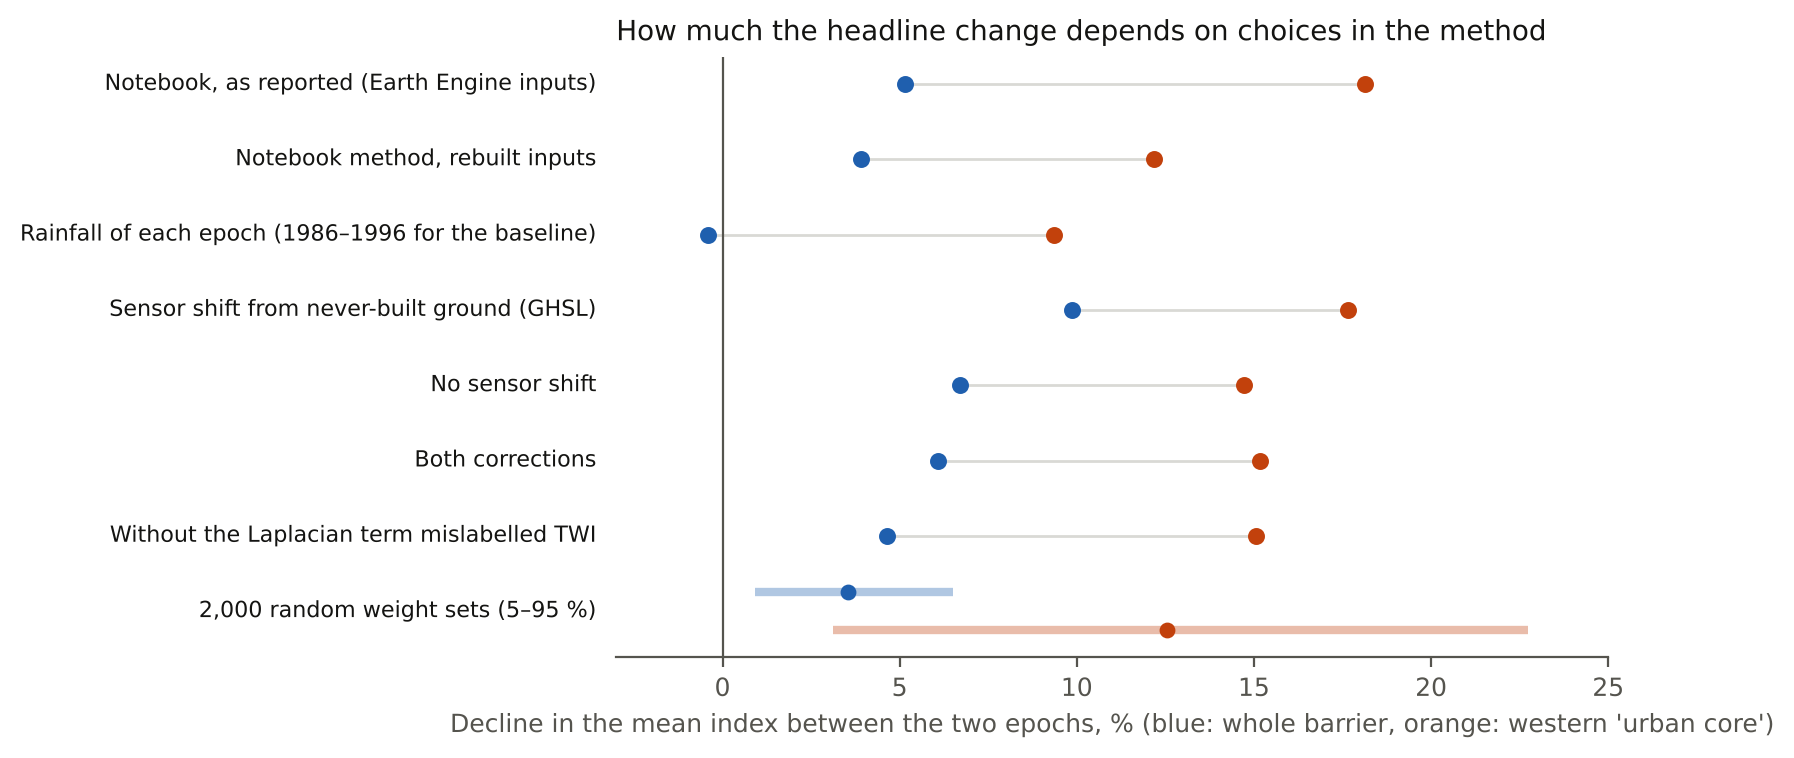
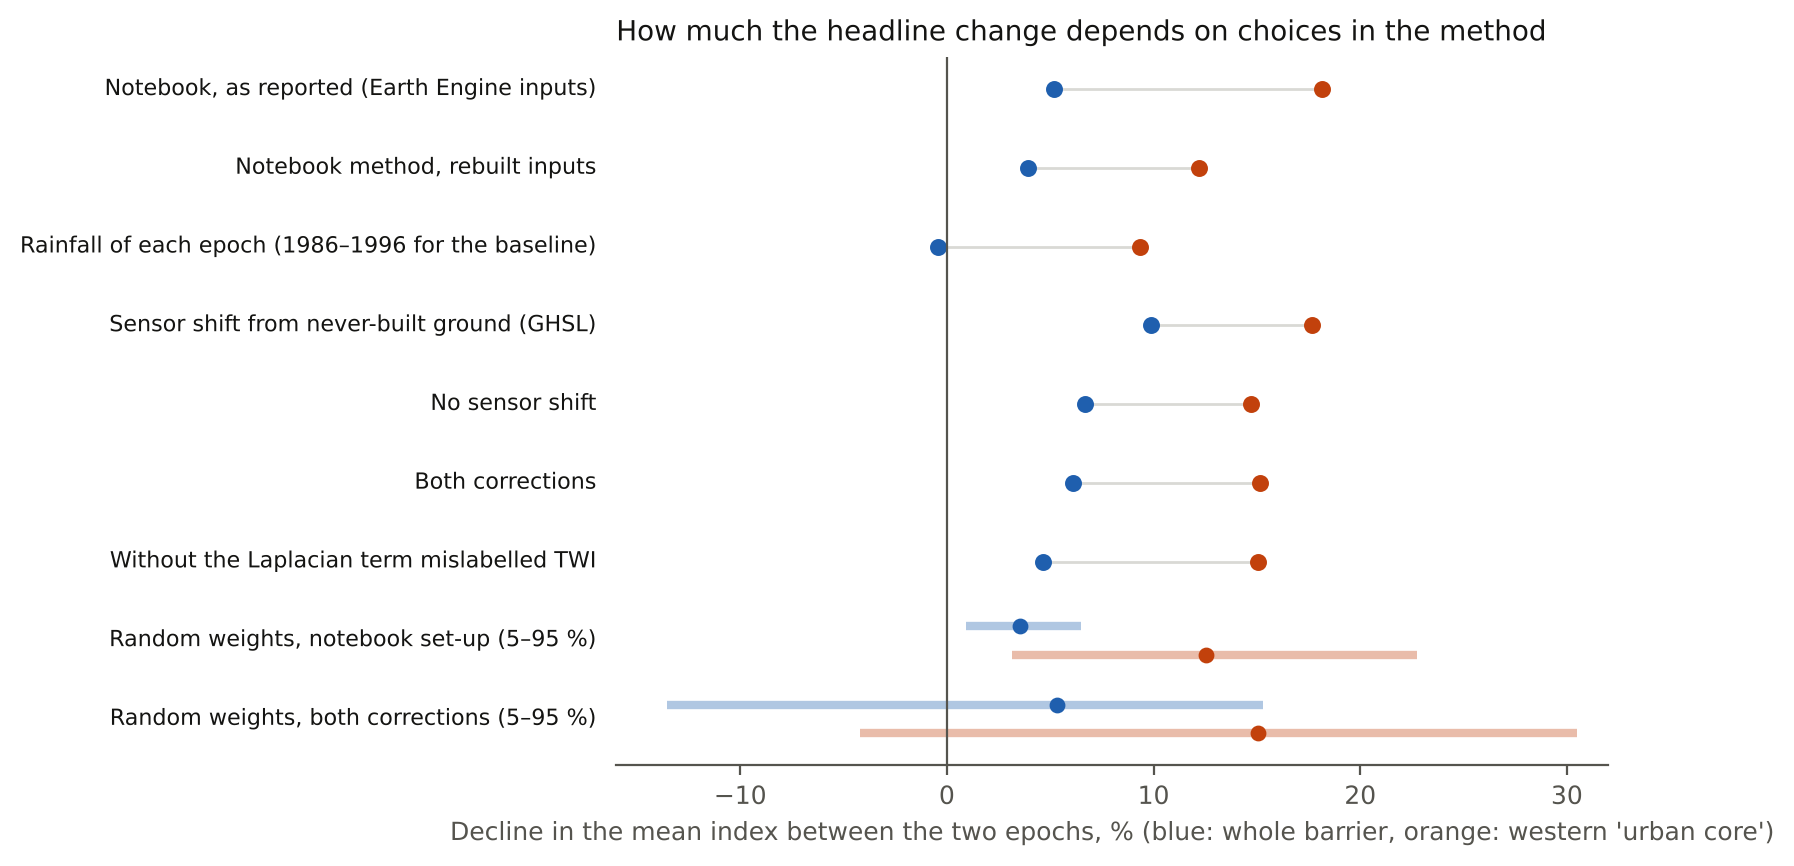
Figures and page: corrected weight test, structure range, largest fall and rising cells, cross-check wording

diff --git a/docs/index.html b/docs/index.html
@@ -85,20 +85,20 @@ footer div { max-width: 1100px; margin: 0 auto; padding: 22px 20px 40px; }
   <p>The original study combined five layers into a recharge-potential index with fixed weights and reported its decline. Rebuilt with the same method, the index falls by <span data-v="rpBasin">—</span> % over the whole barrier and <span data-v="rpCore">—</span> % in the western core; the notebook reported <span data-v="nbBasin">—</span> % and <span data-v="nbCore">—</span> % from its Earth Engine inputs. About <span data-v="permShare">—</span> % of the change comes from the built-up term; the terrain terms are the same in both epochs.</p>
   <figure class="wide"><img src="fig/index_maps.png" width="1660" height="2060" alt="Three maps: the index from 1986 to 1996 imagery, from 2023 to 2024 imagery, and their difference. Decline is concentrated in the west and along the southern barrier, and in a large block in the far south-east inside the area the original study treated as an unchanged rural reference." loading="lazy">
     <figcaption><b>Figure 2.</b> The index in each epoch and its change. The largest single decline lies in the south-east, inside the eastern 30 % of the grid that the original study used as an unchanged reference for matching the two sensors.</figcaption></figure>
-  <p>How large the decline is depends on choices. Using the rainfall of each epoch instead of 2019–2023 for both removes the basin-wide decline (a rise of <span data-v="rainBasin">—</span> %, because 1986–1996 was drier) but leaves a <span data-v="rainCore">—</span> % decline in the core. With both corrections the declines are <span data-v="bothBasin">—</span> % and <span data-v="bothCore">—</span> %. Across 2,000 random sets of weights the core decline ranges from <span data-v="wCoreP5">—</span> to <span data-v="wCoreP95">—</span> % (5th–95th percentile); it is never zero.</p>
+  <p>How large the decline is depends on choices. Using the rainfall of each epoch instead of 2019–2023 for both removes the basin-wide decline (a rise of <span data-v="rainBasin">—</span> %, because 1986–1996 was drier) but leaves a <span data-v="rainCore">—</span> % decline in the core. With both corrections the declines are <span data-v="bothBasin">—</span> % and <span data-v="bothCore">—</span> %. With both corrections and 2,000 random sets of weights, the core declines in <span data-v="wCoreShare">—</span> % of sets and the whole barrier in <span data-v="wBasinShare">—</span> %; the core change runs from <span data-v="wCoreP5">—</span> to <span data-v="wCoreP95">—</span> % (5th–95th percentile, negative values are rises). Under the original set-up a core decline is guaranteed by construction, so that version is not a test.</p>
   <figure><img src="fig/index_sensitivity.png" width="1800" height="770" alt="Dot chart of the decline in the index for the whole barrier and for the western core under each change to the method; every version shows a decline in the western core, while the whole-barrier change ranges from a slight rise to a clear decline." loading="lazy">
-    <figcaption><b>Figure 3.</b> The direction of the change in the west is robust; its size is not.</figcaption></figure>
-  <p>The satellite signal agrees with an independent record. Over <span data-v="ghslBlocks">—</span> blocks of 300 m, the index falls where GHSL maps new buildings (Spearman ρ <span data-v="ghslRho">—</span>), and GHSL's built-up share of the core rose from <span data-v="built90">—</span> % in 1990 to <span data-v="built20">—</span> % in 2020. But the built-up index also reads bright bare sand as built: about <span data-v="sandKm2">—</span> km² scores as built-up in 2024 where GHSL maps no buildings.</p>
+    <figcaption><b>Figure 3.</b> A decline in the west appears in every single change tested and in most weight sets; its size is not fixed, and the whole-barrier direction depends on the rainfall used.</figcaption></figure>
+  <p>The satellite signal agrees with a separate built-up product. GHSL uses a different algorithm but partly the same Landsat archive, so this is a cross-check, not independent validation. Over <span data-v="ghslBlocks">—</span> blocks of 300 m, the index falls where GHSL maps new buildings (Spearman ρ <span data-v="ghslRho">—</span>), and GHSL's built-up share of the core rose from <span data-v="built90">—</span> % in 1990 to <span data-v="built20">—</span> % in 2020. But the built-up index also reads bright bare ground as built: about <span data-v="sandKm2">—</span> km² scores as built-up in 2024 where GHSL maps no buildings, which includes bare sand, cleared land, roads and paving.</p>
   <figure><img src="fig/ghsl_check.png" width="1240" height="680" alt="Box plots of the change in the index against the gain in GHSL built-up fraction; the index falls more where more building was added." loading="lazy">
     <figcaption><b>Figure 4.</b> Change in the index against new building in GHSL.</figcaption></figure>
 
   <h2 id="model">2. What sealing could do to the water table</h2>
-  <p>The model treats the barrier as one unconfined sand aquifer drained by the lagoons and the sea (fixed at sea level) and by seepage where the water table reaches the ground. Recharge is a fraction of the rain falling on unsealed ground. Because the aquifer's conductivity, thickness and the recharge fraction are not known here, each was varied: conductivity 5, 15 and 40 m/day, base at −30 or −60 m, recharge fraction 0.20 or 0.35. Sealing was taken two ways: from GHSL buildings, which miss roads and paving (a lower bound), and from the index's own built-up term taken at face value, which also counts bare sand (an upper bound). All <span data-v="runs">—</span> runs converged with a water-budget error under <span data-v="maxDisc">—</span> %.</p>
-  <figure class="wide"><img src="fig/heads.png" width="1800" height="1480" alt="Upper map: modelled water table in the central scenario, highest in the middle of the barrier, with arrows showing flow outwards to the lagoons and the sea. Lower map: change in water table from 1990 to 2020 under the upper-bound sealing, falling most in the west and south-east and rising slightly in the north-east." loading="lazy">
-    <figcaption><b>Figure 5.</b> Upper: the water table in the central scenario (mean <span data-v="cHeadMean">—</span> m above sea level, highest <span data-v="cHeadMax">—</span> m). Groundwater flows from the middle of the barrier to the lagoons and the sea, across the barrier, not along it. Lower: the change from 1990 to 2020 with the upper-bound sealing.</figcaption></figure>
-  <p>In every scenario the water table lies close to the ground (median depth <span data-v="depthMin">—</span> to <span data-v="depthMax">—</span> m) and between <span data-v="seepMin">—</span> % and <span data-v="seepMax">—</span> % of recharge seeps out at the surface. That shallow, seeping water table absorbs much of the effect of sealing. In the western core the mean fall from 1990 to 2020 is <span data-v="coreGhslMin">—</span>–<span data-v="coreGhslMax">—</span> cm with GHSL sealing and <span data-v="coreSpecMin">—</span>–<span data-v="coreSpecMax">—</span> cm with the upper bound; locally it reaches about <span data-v="p5SpecMax">—</span> m. Rainfall was a little higher in 2019–2023 (<span data-v="rain20">—</span> mm a year) than in 1986–1996 (<span data-v="rain90">—</span> mm), which offsets part of the sealing.</p>
-  <figure><img src="fig/scenarios.png" width="1480" height="740" alt="Dot chart of the mean change in water table in the western core for 12 combinations of conductivity, aquifer base and recharge fraction, under the two sealing estimates; GHSL sealing gives a fall of a few centimetres, the upper bound a fall several times larger." loading="lazy">
-    <figcaption><b>Figure 6.</b> The result depends far more on how sealing is measured than on the aquifer properties.</figcaption></figure>
+  <p>The model treats the barrier as one unconfined sand aquifer drained by the lagoons and the sea (fixed at sea level) and by seepage where the water table reaches the ground. Recharge is a fraction of the rain falling on unsealed ground. Because the aquifer's conductivity, thickness and the recharge fraction are not known here, each was varied: conductivity 5, 15 and 40 m/day, base at −30 or −60 m, recharge fraction 0.20 or 0.35. Sealing was taken two ways: from GHSL buildings, which miss roads and paving and so are likely too low, and from the index's own built-up term taken at face value as a high scenario. The second is not a measured fraction and not a strict upper bound: in <span data-v="specBelowGhsl">—</span> % of model cells its 1990–2020 change is smaller than GHSL's. All <span data-v="runs">—</span> runs converged with a water-budget error under <span data-v="maxDisc">—</span> %.</p>
+  <figure class="wide"><img src="fig/heads.png" width="1800" height="1480" alt="Upper map: modelled water table in the central scenario, highest in the middle of the barrier, with arrows showing flow outwards to the lagoons and the sea. Lower map: change in water table from 1990 to 2020 in the high spectral sealing scenario, falling most in the west and south-east and rising slightly in the north-east." loading="lazy">
+    <figcaption><b>Figure 5.</b> Upper: the water table in the central scenario (mean <span data-v="cHeadMean">—</span> m above sea level, highest <span data-v="cHeadMax">—</span> m). Groundwater flows from the middle of the barrier to the lagoons and the sea, across the barrier, not along it. Lower: the change from 1990 to 2020 in the high spectral sealing scenario.</figcaption></figure>
+  <p>In every scenario the water table lies close to the ground (median depth <span data-v="depthMin">—</span> to <span data-v="depthMax">—</span> m) and between <span data-v="seepMin">—</span> % and <span data-v="seepMax">—</span> % of recharge seeps out at the surface. The model holds the water table near the land surface, which is why conductivity and aquifer thickness hardly change the answer, and why sealing moves heads only a little. In the western core the mean fall from 1990 to 2020 is <span data-v="coreGhslMin">—</span>–<span data-v="coreGhslMax">—</span> cm with GHSL sealing and <span data-v="coreSpecMin">—</span>–<span data-v="coreSpecMax">—</span> cm in the high spectral scenario. Changing the model structure (drain elevation and conductance, how the surface model sets the top) gives <span data-v="stGhslMin">—</span>–<span data-v="stGhslMax">—</span> cm and <span data-v="stSpecMin">—</span>–<span data-v="stSpecMax">—</span> cm, with <span data-v="stSeepMin">—</span>–<span data-v="stSeepMax">—</span> % of recharge seeping out. In the high spectral scenario the largest local fall is <span data-v="fallSpecMin">—</span>–<span data-v="fallSpecMax">—</span> m, and <span data-v="riseSpecMin">—</span>–<span data-v="riseSpecMax">—</span> % of cells rise. If abstraction has already lowered the real water table below the ground, the response to sealing could be larger than modelled here. Rainfall was a little higher in 2019–2023 (<span data-v="rain20">—</span> mm a year) than in 1986–1996 (<span data-v="rain90">—</span> mm), which offsets part of the sealing. Both epochs use today's terrain and today's land and water masks, so the comparison is today's barrier with 1990 sealing against today's barrier with 2020 sealing.</p>
+  <figure><img src="fig/scenarios.png" width="1480" height="740" alt="Dot chart of the mean change in water table in the western core for 12 combinations of conductivity, aquifer base and recharge fraction, under the two sealing estimates; GHSL sealing gives a fall of a few centimetres, the high spectral scenario a fall several times larger." loading="lazy">
+    <figcaption><b>Figure 6.</b> The result depends far more on how sealing is measured than on the aquifer properties, because the model's water table is held near the surface.</figcaption></figure>
 
   <h2 id="changed">What changed from the original version</h2>
   <div class="tw"><table>
@@ -106,7 +106,7 @@ footer div { max-width: 1100px; margin: 0 auto; padding: 22px 20px 40px; }
     <tbody>
       <tr><td>18.1 % basin-wide loss of recharge and over 45 % in the urban core (README, report)</td><td>The notebook's own output was <span data-v="nbBasin">—</span> % and <span data-v="nbCore">—</span> % in an index, not in recharge; the rebuild gives <span data-v="rpBasin">—</span> % and <span data-v="rpCore">—</span> %, and the basin-wide value depends on the rainfall used</td></tr>
       <tr><td>Recharge in mm/yr = rainfall × 0.35 × index, passed to MODFLOW</td><td>The index is kept as a relative score only; the model takes recharge from rainfall and sealing, with the 0.35 coefficient as one of two scenarios</td></tr>
-      <tr><td>MODFLOW 6 input written, never run; recharge in the wrong units; no boundaries or conductivity</td><td>Model runs; units are metres and days; lagoon and sea boundaries, seepage, conductivity and aquifer base set as scenarios; checked against an analytical solution</td></tr>
+      <tr><td>MODFLOW 6 input written, never run; recharge in the wrong units; no boundaries or conductivity</td><td>Model runs; units are metres and days; lagoon and sea boundaries, seepage, conductivity and aquifer base set as scenarios; the solver set-up checked against an analytical solution (without seepage)</td></tr>
       <tr><td>"TWI" from a smoothed Laplacian</td><td>Named for what it is, a surface-curvature term; removing it changes the core decline to <span data-v="noTwiCore">—</span> %</td></tr>
       <tr><td>Sensor matching on the eastern 30 % of the grid, assumed unchanged</td><td>That zone changed (largest decline in the domain, more GHSL buildings); matching on GHSL never-built ground tested instead</td></tr>
       <tr><td>2019–2023 rainfall used for both epochs</td><td>CHIRPS 1986–1996 for the earlier epoch</td></tr>
@@ -116,8 +116,9 @@ footer div { max-width: 1100px; margin: 0 auto; padding: 22px 20px 40px; }
   <h2 id="limits">Limits</h2>
   <ul>
     <li><b>No groundwater observations.</b> Heads, flows and changes are model results under assumed properties; none is checked against wells.</li>
-    <li><b>Sealing is bracketed, not measured.</b> GHSL counts building footprints only; the satellite term confuses bare sand with built ground. The truth for roads and paving lies between.</li>
+    <li><b>Sealing is not measured.</b> GHSL counts building footprints only; the satellite term is a relative score that also reads bare ground as built. Neither is a bound on the true sealed fraction.</li>
     <li><b>Surface model, not ground.</b> The DEM includes buildings and trees; the model top uses a low percentile within each cell to reduce, not remove, that bias.</li>
+    <li><b>Model structure.</b> Most recharge leaves through surface seepage, so the result depends on the drain settings and the surface model as much as on the aquifer; both were varied, not calibrated.</li>
     <li><b>Steady state.</b> Seasonal recharge, abstraction from boreholes, drainage works, sand-filling and lagoon tides are not represented.</li>
     <li><b>No salinity.</b> The model has no variable-density flow; it cannot say anything reliable about saltwater intrusion.</li>
     <li><b>Two epochs.</b> The earlier imagery spans 1986–1996 and is compared with 2023–2024; nothing is said about the path between.</li>

diff --git a/code/pipeline/p05_site_data.py b/code/pipeline/p05_site_data.py
@@ -25,6 +25,18 @@ def main():
     allr = [s[e] for s in sc for e in ("1990", "2020")]
     central = [s for s in by["ghsl"] if (s["k_m_day"], s["base_m"], s["c"]) == (15.0, -30.0, 0.35)][0]["2020"]
     cm = lambda v: f"{abs(v) * 100:.0f}"
+    import numpy as np
+    H = np.load(OUT / "modflow_heads.npz")
+    act = H["active"]
+    spec = [k for k in H.files if k.startswith("spectral_")]
+    falls = [float(np.nanmin((H[k][1] - H[k][0])[act])) for k in spec]
+    rise = [float(np.mean((H[k][1] - H[k][0])[act] > 0.005)) for k in spec]
+    dsp = H["sealed_spectral_2020"] - H["sealed_spectral_1990"]
+    dgh = H["sealed_ghsl_2020"] - H["sealed_ghsl_1990"]
+    below = float(np.mean((dsp < dgh)[act]))
+    S = json.load(open(OUT / "structure_sensitivity.json"))
+    st = {s_: [c["core_head_change_m"] for c in S["cases"] if c["sealing"] == s_ and c["converged"]] for s_ in ("ghsl", "spectral")}
+    wc = ws["corrected_setup"]
     v = {
         "landKm2": f"{R['grid']['land_km2']:.0f}", "coreKm2": f"{R['grid']['core_km2']:.0f}",
         "s2Scenes": str(len(meta["sources"]["sentinel2_scenes"])), "l5Scenes": str(len(meta["sources"]["landsat5_scenes"])),
@@ -34,8 +46,9 @@ def main():
         "rainBasin": pct(-var["rainfall_per_epoch"]["basin_change_pct"]), "rainCore": pct(var["rainfall_per_epoch"]["urban_core_change_pct"]),
         "noTwiCore": f"{var['without_twi_term']['urban_core_change_pct']:.0f}",
         "bothBasin": pct(var["per_epoch_rain_and_ghsl_shift"]["basin_change_pct"]), "bothCore": pct(var["per_epoch_rain_and_ghsl_shift"]["urban_core_change_pct"]),
-        "wCoreP5": pct(ws["urban_core_change_pct_p5_p50_p95"][0]), "wCoreP95": pct(ws["urban_core_change_pct_p5_p50_p95"][2]),
-        "wBasinP5": pct(ws["basin_change_pct_p5_p50_p95"][0]), "wBasinP95": pct(ws["basin_change_pct_p5_p50_p95"][2]),
+        "wCoreShare": f"{wc['urban_core_share_of_draws_with_decline'] * 100:.0f}", "wBasinShare": f"{wc['basin_share_of_draws_with_decline'] * 100:.0f}",
+        "wCoreP5": pct(wc["urban_core_change_pct_p5_p50_p95"][0]), "wCoreP95": pct(wc["urban_core_change_pct_p5_p50_p95"][2]),
+        "wCoreP50": pct(wc["urban_core_change_pct_p5_p50_p95"][1]),
         "permShare": f"{R['decomposition']['share_of_mean_change_from_permeability'] * 100:.0f}",
         "ghslRho": f"{gh['spearman_rho_dperm_vs_dbuilt']:.2f}".replace("-", "−"), "ghslBlocks": f"{gh['blocks']:,}",
         "built90": f"{gh['ghsl_built_fraction_core_mean']['1990'] * 100:.0f}", "built20": f"{gh['ghsl_built_fraction_core_mean']['2020'] * 100:.0f}",
@@ -45,13 +58,18 @@ def main():
         "activeKm2": f"{allr[0]['active_km2']:.0f}",
         "coreGhslMin": cm(max(core["ghsl"])), "coreGhslMax": cm(min(core["ghsl"])),
         "coreSpecMin": cm(max(core["spectral"])), "coreSpecMax": cm(min(core["spectral"])),
-        "p5SpecMax": f"{abs(min(p5['spectral'])):.1f}",
+        "specBelowGhsl": f"{below * 100:.0f}",
+        "fallSpecMin": f"{abs(max(falls)):.1f}", "fallSpecMax": f"{abs(min(falls)):.1f}",
+        "riseSpecMin": f"{min(rise) * 100:.0f}", "riseSpecMax": f"{max(rise) * 100:.0f}",
+        "stGhslMin": cm(max(st["ghsl"])), "stGhslMax": cm(min(st["ghsl"])), "stSpecMin": cm(max(st["spectral"])), "stSpecMax": cm(min(st["spectral"])),
+        "stSeepMin": f"{min(c['seepage_share_2020'] for c in S['cases'] if c['converged']) * 100:.0f}",
+        "stSeepMax": f"{max(c['seepage_share_2020'] for c in S['cases'] if c['converged']) * 100:.0f}",
         "depthMin": f"{min(r['depth_to_water_median_m'] for r in allr):.1f}", "depthMax": f"{max(r['depth_to_water_median_m'] for r in allr):.1f}",
         "seepMin": f"{min(r['share_to_surface_seepage'] for r in allr) * 100:.0f}", "seepMax": f"{max(r['share_to_surface_seepage'] for r in allr) * 100:.0f}",
         "cHeadMean": f"{central['head_mean_m']:.1f}", "cHeadMax": f"{central['head_max_m']:.1f}",
     }
     (ROOT / "docs" / "data").mkdir(parents=True, exist_ok=True)
-    json.dump({"values": v, "sources": ["outputs/index_results.json", "outputs/modflow_results.json", "data_cache/stack_meta.json"]},
+    json.dump({"values": v, "sources": ["outputs/index_results.json", "outputs/modflow_results.json", "outputs/modflow_heads.npz", "outputs/structure_sensitivity.json", "data_cache/stack_meta.json"]},
               open(ROOT / "docs" / "data" / "site.json", "w"), indent=1, ensure_ascii=False)
     print(json.dumps(v, indent=1, ensure_ascii=False))
 

diff --git a/code/pipeline/p04_figures.py b/code/pipeline/p04_figures.py
@@ -106,18 +106,19 @@ def fig_sensitivity(R):
            "without_twi_term": "Without the Laplacian term mislabelled TWI"}
     rows += [(lab[k], v["basin_change_pct"], v["urban_core_change_pct"]) for k, v in R["variants"].items()]
     ws = R["weight_sensitivity"]
-    fig, ax = plt.subplots(figsize=(6.4, 3.9))
-    y = np.arange(len(rows))[::-1] + 1.5
+    fig, ax = plt.subplots(figsize=(6.4, 4.6))
+    y = np.arange(len(rows))[::-1] + 2.5
     for yy, (t, b, u) in zip(y, rows):
         ax.plot([b, u], [yy, yy], color=RULE, lw=1, zorder=1)
         ax.scatter([b], [yy], s=26, color="#1f5fae", zorder=2); ax.scatter([u], [yy], s=26, color="#c2410c", zorder=2)
         ax.text(-0.02, yy, t, va="center", ha="right", fontsize=8, color=INK, transform=ax.get_yaxis_transform())
-    for yy, key, col in ((0.75, "basin_change_pct_p5_p50_p95", "#1f5fae"), (0.25, "urban_core_change_pct_p5_p50_p95", "#c2410c")):
-        p5, p50, p95 = ws[key]
-        ax.plot([p5, p95], [yy, yy], color=col, lw=3, alpha=0.35, solid_capstyle="butt"); ax.scatter([p50], [yy], color=col, s=22)
-    ax.text(-0.02, 0.5, "2,000 random weight sets (5–95 %)", va="center", ha="right", fontsize=8, color=INK, transform=ax.get_yaxis_transform())
+    for base_y, tag, label in ((1.5, "notebook_setup", "Random weights, notebook set-up (5–95 %)"), (0.5, "corrected_setup", "Random weights, both corrections (5–95 %)")):
+        for dy, key, col in ((0.18, "basin_change_pct_p5_p50_p95", "#1f5fae"), (-0.18, "urban_core_change_pct_p5_p50_p95", "#c2410c")):
+            p5, p50, p95 = ws[tag][key]
+            ax.plot([p5, p95], [base_y + dy] * 2, color=col, lw=3, alpha=0.35, solid_capstyle="butt"); ax.scatter([p50], [base_y + dy], color=col, s=22)
+        ax.text(-0.02, base_y, label, va="center", ha="right", fontsize=8, color=INK, transform=ax.get_yaxis_transform())
     ax.axvline(0, color=INK2, lw=0.8)
-    ax.set_xlim(-3, 25); ax.set_yticks([])
+    ax.set_xlim(-16, 32); ax.set_yticks([])
     ax.spines["left"].set_visible(False)
     ax.set_xlabel("Decline in the mean index between the two epochs, % (blue: whole barrier, orange: western 'urban core')")
     ax.set_title("How much the headline change depends on choices in the method", loc="left", color=INK)
@@ -179,9 +180,9 @@ def fig_heads(ext_c, H, Rm):
     key2 = "spectral_k15_b30_c0.35"
     ax = axes[1]; ax.set_facecolor(WATER)
     dd = (H[key2][1] - H[key2][0]) if key2 in H.files else (h20 - h90)
-    im = ax.imshow(np.where(act, dd, np.nan), extent=ext_c, cmap="RdBu", norm=TwoSlopeNorm(0, -1.0, 0.25), interpolation="nearest")
+    im = ax.imshow(np.where(act, dd, np.nan), extent=ext_c, cmap="RdBu", norm=TwoSlopeNorm(0, -1.0, 1.0), interpolation="nearest")
     map_frame(ax, ext_c)
-    ax.set_title("Change in water table 1990 → 2020 with the upper-bound sealing (red: fall, blue: rise)", loc="left", color=INK, fontsize=9)
+    ax.set_title("Change in water table 1990 → 2020, high spectral sealing scenario (red: fall, blue: rise)", loc="left", color=INK, fontsize=9)
     fig.colorbar(im, ax=ax, fraction=0.025, pad=0.01).set_label("m", fontsize=7)
     save(fig, "heads.png")
 
@@ -199,7 +200,7 @@ def fig_scenarios(Rm):
     ax.set_yticklabels([f"K {k:g} m/day · base {b:g} m · c {c}" for k, b, c in combos], fontsize=7)
     ax.axvline(0, color=INK2, lw=0.8)
     ax.set_xlabel("Mean change in water table in the western 'urban core', 1990 → 2020, m")
-    ax.set_title("All 24 scenario pairs. Blue: sealing from GHSL buildings (lower bound).\nOrange: sealing from the index's satellite term (upper bound)",
+    ax.set_title("All 24 scenario pairs. Blue: sealing from GHSL buildings (footprints only, likely too low).\nOrange: high scenario from the index's satellite term (not a bound)",
                  loc="left", color=INK, fontsize=9)
     save(fig, "scenarios.png")
 
